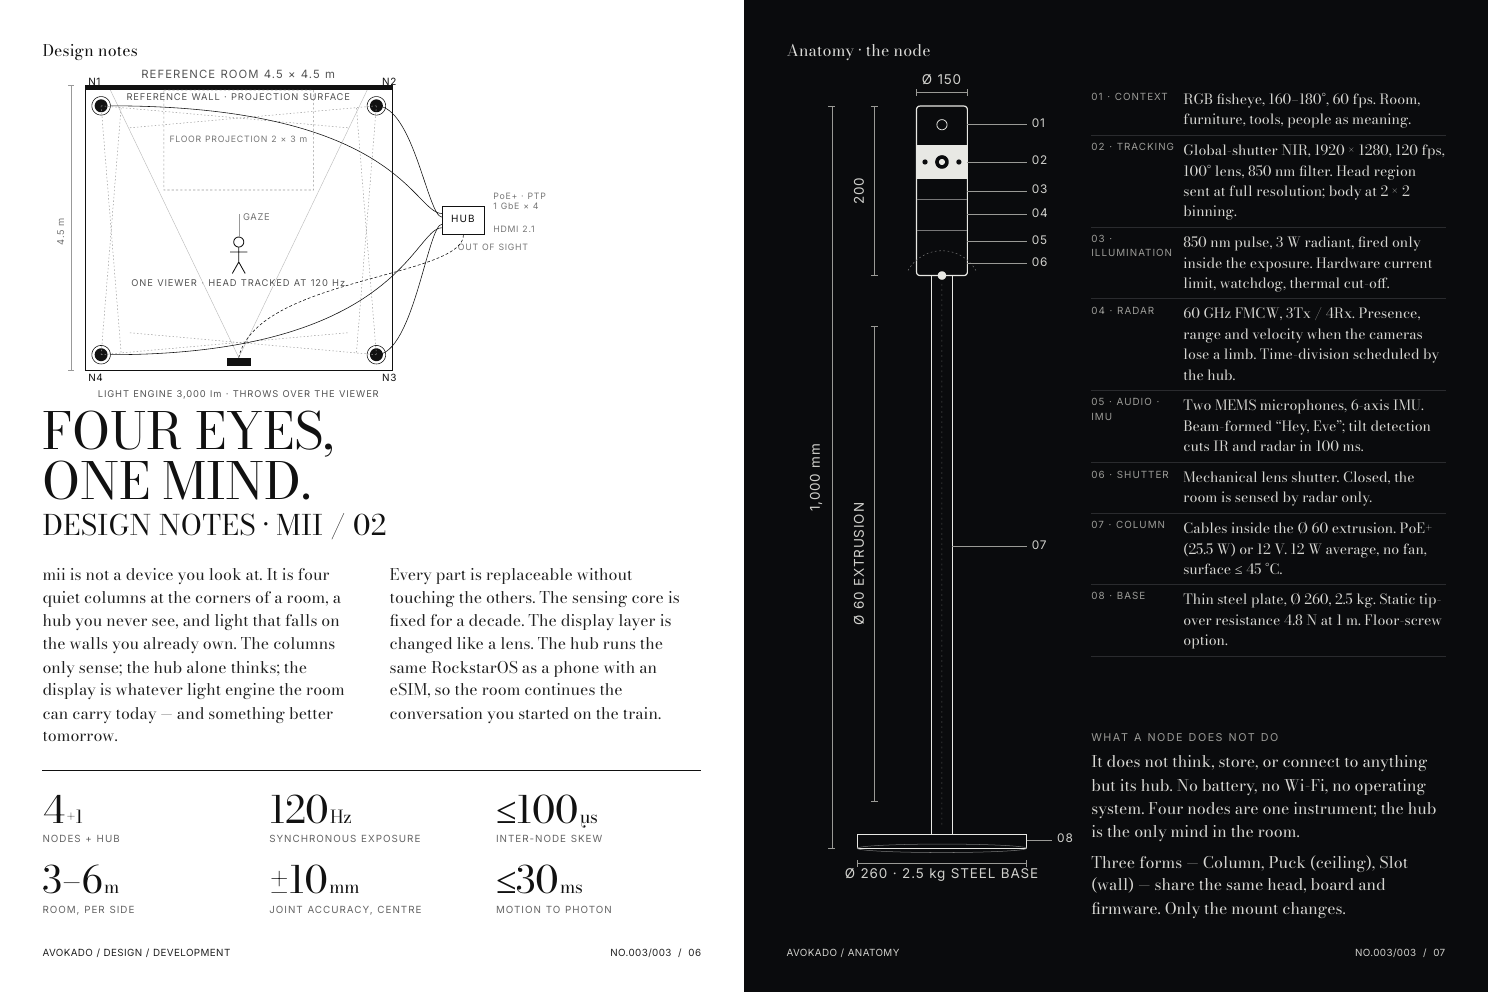
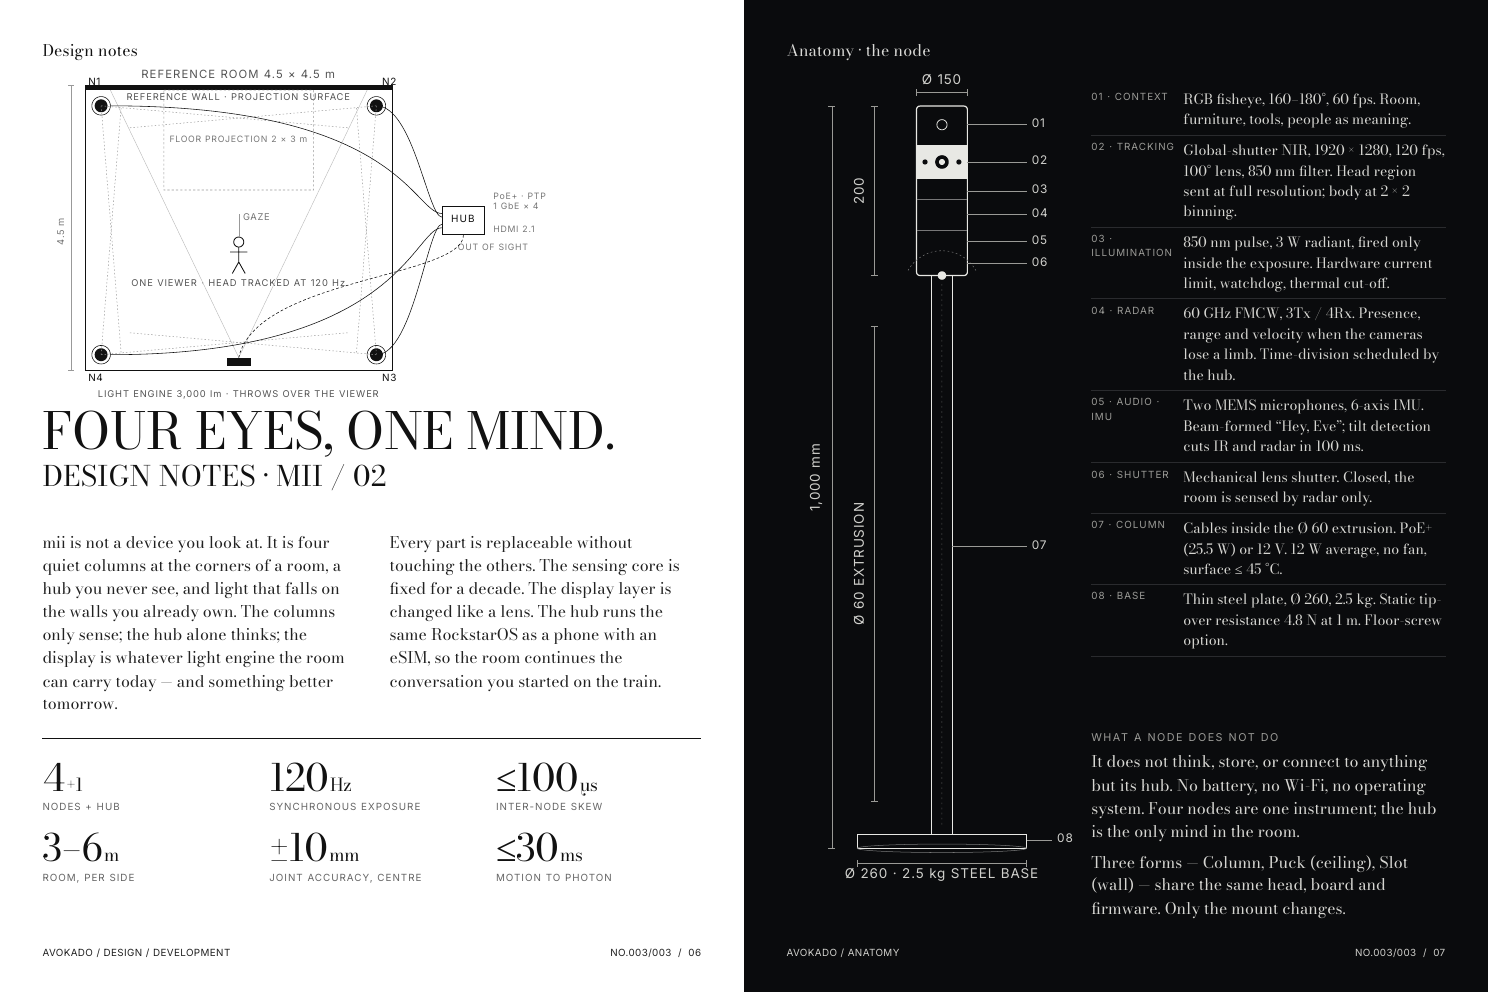
誌面 06: 見出し「Four eyes, one mind.」を 1 行に
Claude-Session: https://claude.ai/code/session_01JzDjJ6MM5917aLZq5fEnX5

Changed region(s): [[0.0309, 0.4058, 0.4634, 0.9366], [0.0309, 0.7805, 0.0927, 0.9053]]

diff --git a/docs/mii/design/magazine/spreads.html b/docs/mii/design/magazine/spreads.html
@@ -118,10 +118,10 @@ table.spec td:first-child{font-family:Inter,sans-serif;font-size:10.5px;letter-s
     </svg>
 
     <div class="abs" style="top:115mm;left:12mm;width:186mm">
-      <h1>Four eyes,<br>one mind.<small>Design notes · MII / 02</small></h1>
+      <h1 style="white-space:nowrap">Four eyes, one mind.<small>Design notes · MII / 02</small></h1>
     </div>
 
-    <div class="abs" style="top:159mm;left:12mm;width:186mm">
+    <div class="abs" style="top:150mm;left:12mm;width:186mm">
       <div class="cols">
         <p>mii is not a device you look at. It is four quiet columns at the corners of a room, a hub you never see, and light that falls on the walls you already own. The columns only sense; the hub alone thinks; the display is whatever light engine the room can carry today — and something better tomorrow.</p>
         <p>Every part is replaceable without touching the others. The sensing core is fixed for a decade. The display layer is changed like a lens. The hub runs the same RockstarOS as a phone with an eSIM, so the room continues the conversation you started on the train.</p>
